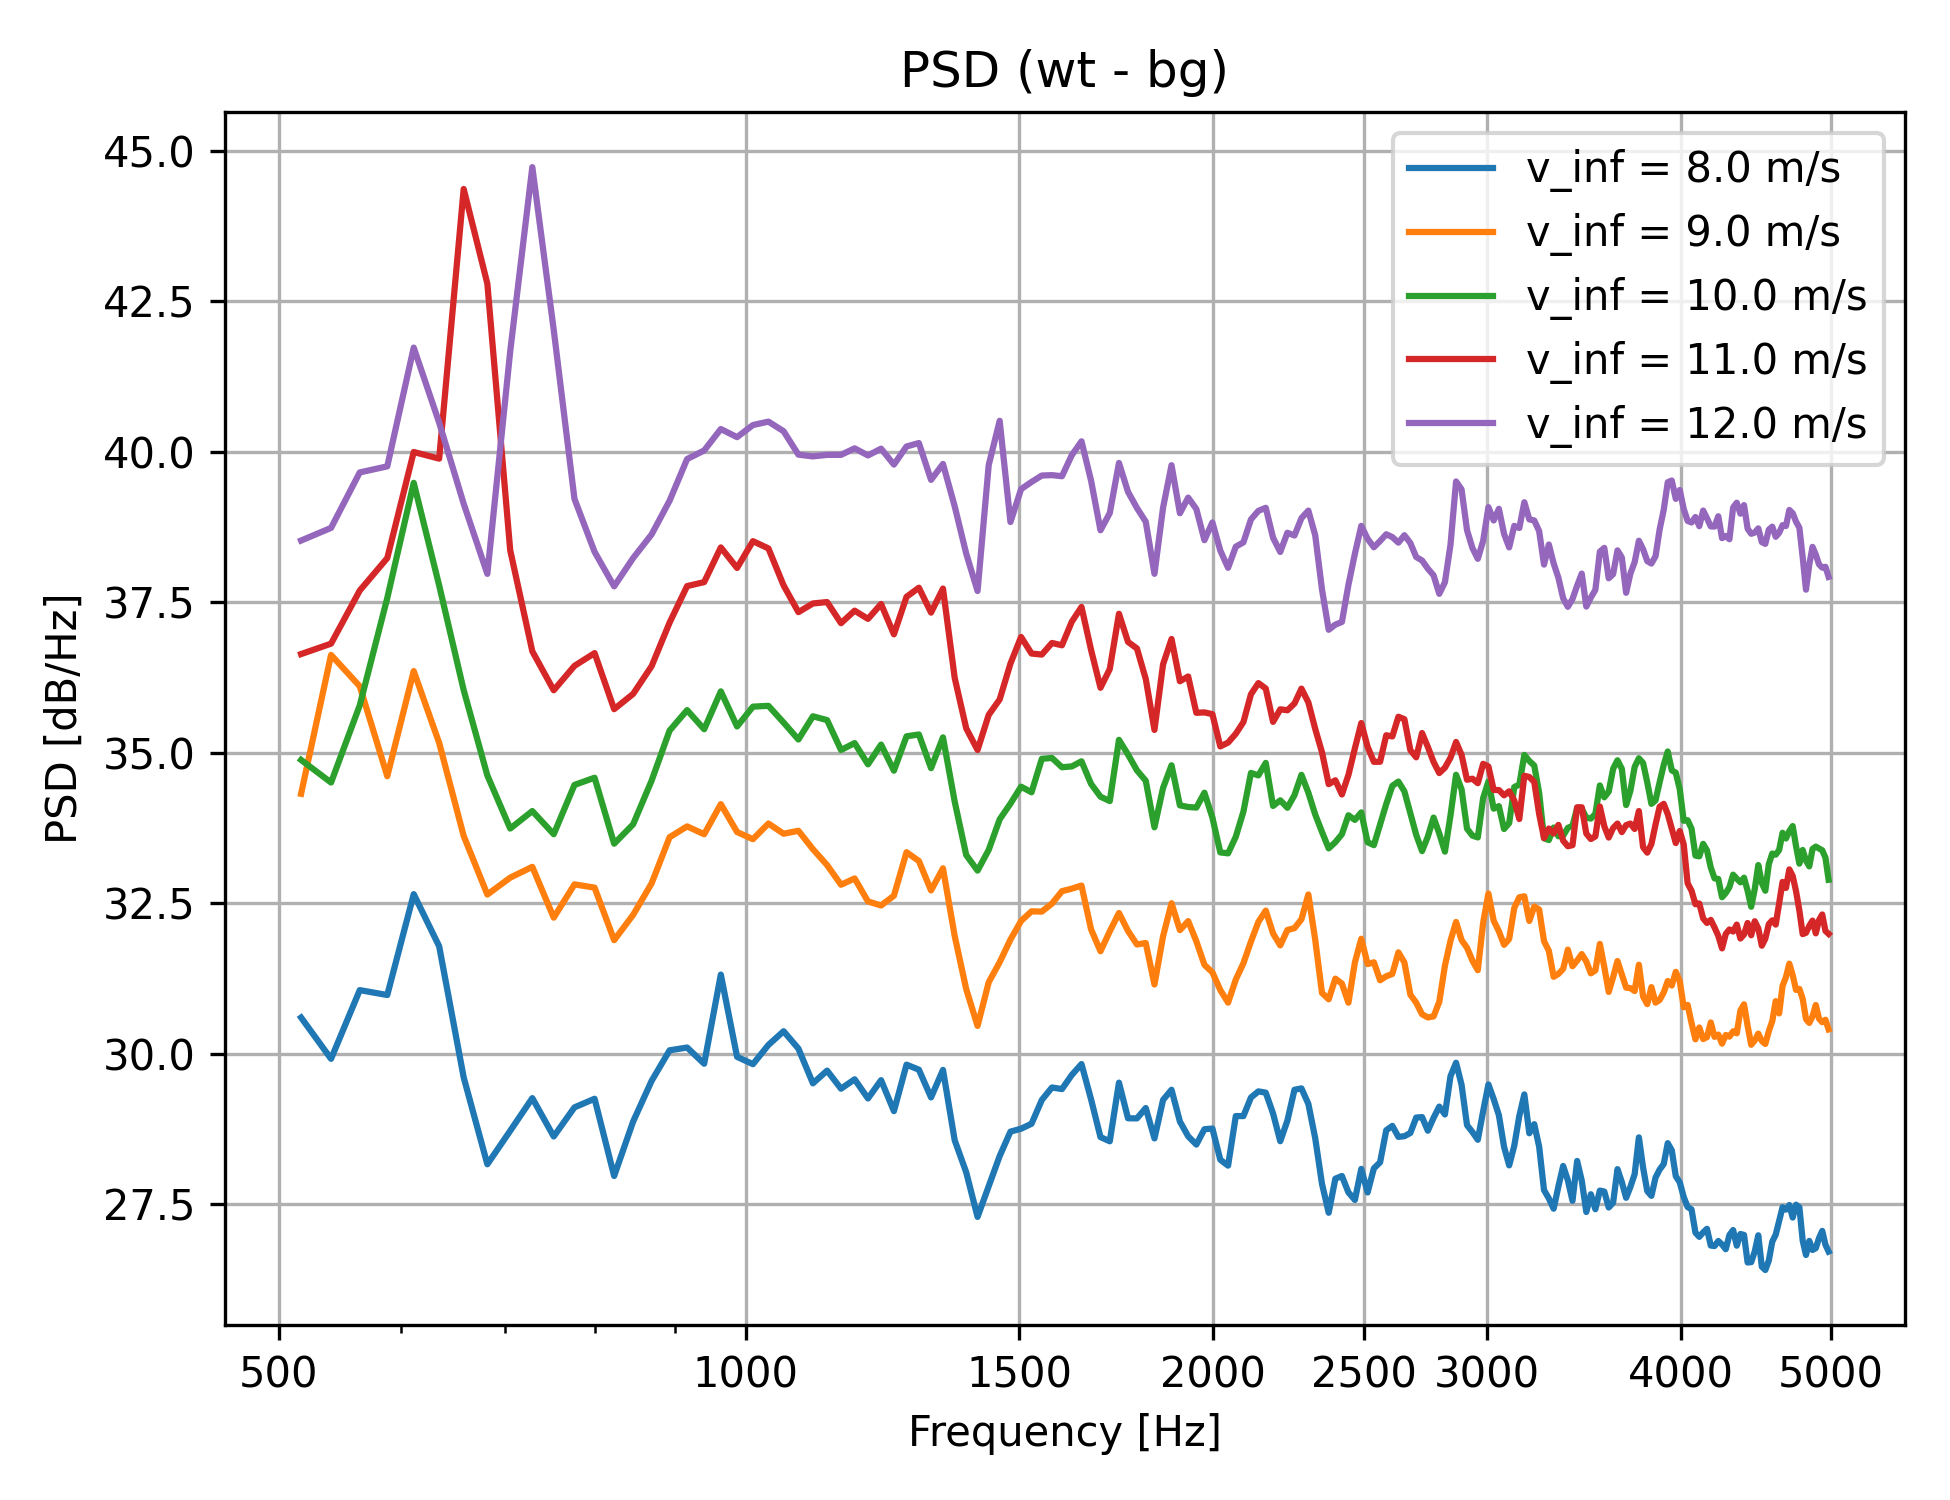
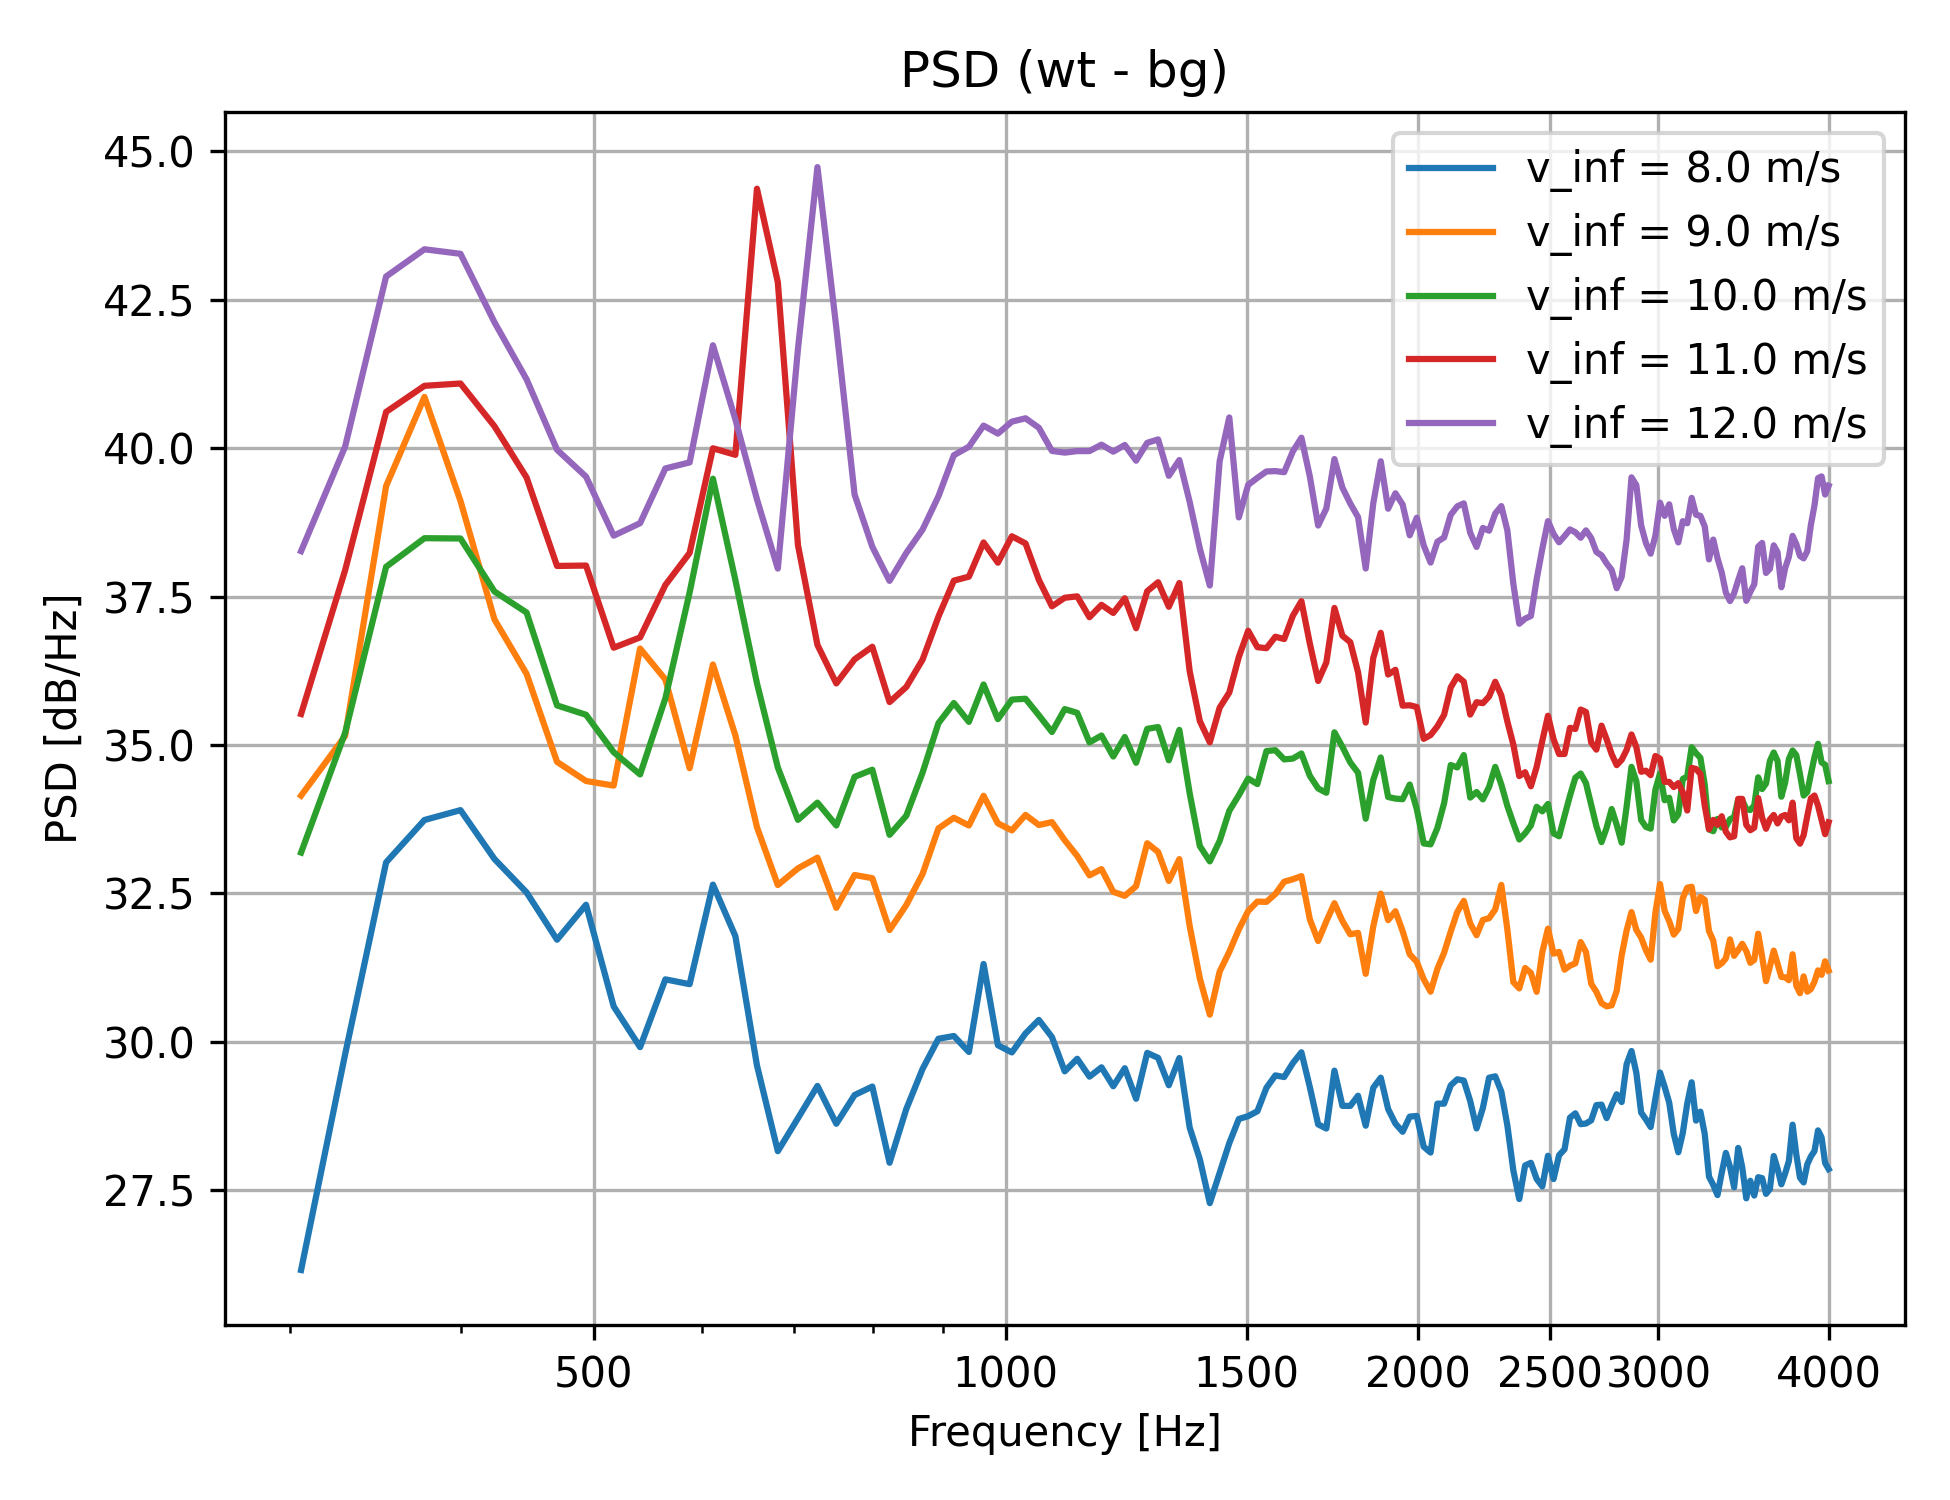
Added validation case

diff --git a/analysis.py b/analysis.py
@@ -14,12 +14,13 @@ with open('misc/windmill.txt', 'r') as f:
 # ----------------------------- Config ----------------------------------
 p_ref = 2E-5  # Reference pressure (Pa)
 sample_rate = 48128  # Hz
-f_lower = 500  # Hz
-f_upper = 5000 # Hz
+f_lower = 300  # Hz
+f_upper = 4000 # Hz
 scaling_factor = 1
 size_x = 6.5 * scaling_factor
 size_y = 5 * scaling_factor
-x_ticks = [500, 1000, 1500, 2000, 2500, 3000, 4000, 5000]
+x_ticks = [500, 1000, 1500, 2000, 2500, 3000, 4000]
+color_scheme = 'viridis'
 
 # Get paths for data files
 bg_paths = []
@@ -30,8 +31,6 @@ for file in os.listdir('data/downloads'):
             bg_paths.append(f'data/downloads/{file}')
         elif 'Wind' in file:
             wt_paths.append(f'data/downloads/{file}')
-
-run_FFT = False
 
 # Uncomment the following lines to use only one background and one wind turbine file
 #bg_paths = ['data/downloads/U12_Background.mat']
@@ -91,10 +90,10 @@ for bg_data_path, wt_data_path in zip(bg_paths, wt_paths):
 df_bpm_list = []
 for v_inf in v_inf_list:
     print(f'[*] Importing BPM data from BPM_BYU/data/data{int(v_inf)}.csv...')
-    df_fortran_bpm = pd.read_csv(f'BPM_BYU/data/data{int(v_inf)}.csv', sep=',')
+    df_bpm = pd.read_csv(f'BPM_BYU/data/data{int(v_inf)}.csv', sep=',')
     # Remove data outside of range
-    df_fortran_bpm = df_fortran_bpm[(df_fortran_bpm['freq'] >= f_lower) & (df_fortran_bpm['freq'] <= f_upper)]
-    df_bpm_list.append(df_fortran_bpm)
+    df_bpm = df_bpm[(df_bpm['freq'] >= f_lower) & (df_bpm['freq'] <= f_upper)]
+    df_bpm_list.append(df_bpm)
 
 
 # ---------------------------------- FFT ----------------------------------
@@ -102,55 +101,54 @@ for v_inf in v_inf_list:
 df_bg_fft_list = []
 df_wt_fft_list = []
 
-if run_FFT:
-    for df_bg, df_wt, v_inf in zip(df_bg_list, df_wt_list, v_inf_list):
-        print(f'[*] Calculating FFT for v_inf = {v_inf} m/s...')
+for df_bg, df_wt, v_inf in zip(df_bg_list, df_wt_list, v_inf_list):
+    print(f'[*] Calculating FFT for v_inf = {v_inf} m/s...')
 
-        # Calculate frequency components
-        df_bg_fft = pd.DataFrame(np.fft.fft(df_bg))
-        df_wt_fft = pd.DataFrame(np.fft.fft(df_wt))
+    # Calculate frequency components
+    df_bg_fft = pd.DataFrame(np.fft.fft(df_bg))
+    df_wt_fft = pd.DataFrame(np.fft.fft(df_wt))
 
-        # Get absolute value of components and normalize
-        df_bg_fft = df_bg_fft.applymap(lambda x: np.abs(x) / len(df_bg))
-        df_wt_fft = df_wt_fft.applymap(lambda x: np.abs(x) / len(df_wt))
+    # Get absolute value of components and normalize
+    df_bg_fft = df_bg_fft.applymap(lambda x: np.abs(x) / len(df_bg))
+    df_wt_fft = df_wt_fft.applymap(lambda x: np.abs(x) / len(df_wt))
 
-        # Get frequency axis
-        df_bg_fft['freq'] = np.fft.fftfreq(n=len(df_bg_fft), d=1/sample_rate)
-        df_wt_fft['freq'] = np.fft.fftfreq(n=len(df_wt_fft), d=1/sample_rate)
+    # Get frequency axis
+    df_bg_fft['freq'] = np.fft.fftfreq(n=len(df_bg_fft), d=1/sample_rate)
+    df_wt_fft['freq'] = np.fft.fftfreq(n=len(df_wt_fft), d=1/sample_rate)
 
-        # Keep only positive frequencies
-        df_bg_fft = df_bg_fft[df_bg_fft['freq'] >= 0]
-        df_wt_fft = df_wt_fft[df_wt_fft['freq'] >= 0]
+    # Keep only positive frequencies
+    df_bg_fft = df_bg_fft[df_bg_fft['freq'] >= 0]
+    df_wt_fft = df_wt_fft[df_wt_fft['freq'] >= 0]
 
-        # Remove frequencies outside of range
-        df_bg_fft = df_bg_fft[(df_bg_fft['freq'] >= f_lower) & (df_bg_fft['freq'] <= f_upper)]
-        df_wt_fft = df_wt_fft[(df_wt_fft['freq'] >= f_lower) & (df_wt_fft['freq'] <= f_upper)]
+    # Remove frequencies outside of range
+    df_bg_fft = df_bg_fft[(df_bg_fft['freq'] >= f_lower) & (df_bg_fft['freq'] <= f_upper)]
+    df_wt_fft = df_wt_fft[(df_wt_fft['freq'] >= f_lower) & (df_wt_fft['freq'] <= f_upper)]
 
-        # Reset index
-        df_bg_fft = df_bg_fft.reset_index(drop=True)
-        df_wt_fft = df_wt_fft.reset_index(drop=True)
+    # Reset index
+    df_bg_fft = df_bg_fft.reset_index(drop=True)
+    df_wt_fft = df_wt_fft.reset_index(drop=True)
 
-        # Append to lists
-        df_bg_fft_list.append(df_bg_fft)
-        df_wt_fft_list.append(df_wt_fft)
+    # Append to lists
+    df_bg_fft_list.append(df_bg_fft)
+    df_wt_fft_list.append(df_wt_fft)
 
-    freq_res_fft = df_bg_fft_list[0]['freq'][1] - df_bg_fft_list[0]['freq'][0]
-    print(f'[*] Frequency resolution: {freq_res_fft} Hz')
+freq_res_fft = df_bg_fft_list[0]['freq'][1] - df_bg_fft_list[0]['freq'][0]
+print(f'[*] Frequency resolution: {freq_res_fft} Hz')
 
-    # Plot all FFT results in df_bg_fft_list and df_wt_fft_list
-    print('[*] Plotting results...')
-    fig, ax = plt.subplots()
-    fig.set_size_inches(size_x, size_y)
-    for df_bg_fft, df_wt_fft, v_inf in zip(df_bg_fft_list, df_wt_fft_list, v_inf_list):
-        sns.lineplot(data=df_wt_fft, x='freq', y=0, label=f'v_inf = {v_inf} m/s', ax=ax)
-    ax.set_title('FFT')
-    ax.grid(True)
-    ax.set_ylabel('Pressure [Pa]')
-    plt.xscale('log')
-    plt.xticks(x_ticks, x_ticks)
-    plt.tight_layout()
-    plt.savefig(f'saves/fft.png', dpi=300)
-    plt.show()
+# Plot all FFT results in df_bg_fft_list and df_wt_fft_list
+print('[*] Plotting results...')
+fig, ax = plt.subplots()
+fig.set_size_inches(size_x, size_y)
+for df_bg_fft, df_wt_fft, v_inf in zip(df_bg_fft_list, df_wt_fft_list, v_inf_list):
+    sns.lineplot(data=df_wt_fft, x='freq', y=0, label=f'v_inf = {v_inf} m/s', ax=ax)
+ax.set_title('FFT')
+ax.grid(True)
+ax.set_ylabel('Pressure [Pa]')
+plt.xscale('log')
+plt.xticks(x_ticks, x_ticks)
+plt.tight_layout()
+plt.savefig(f'saves/fft.png', dpi=300)
+plt.show()
 
 # --------------------------- Welch PSD -----------------------------------
 
@@ -295,9 +293,9 @@ fig, ax = plt.subplots()
 fig.set_size_inches(size_x, size_y)
 for df_bg_spl, df_wt_spl, v_inf in zip(df_bg_spl_list, df_wt_spl_list, v_inf_list):
     sns.lineplot(data=df_wt_spl, x='freq', y='spl', label=f'v_inf = {v_inf} m/s', ax=ax)
-bpm_df = pd.DataFrame({'freq': bpm_f, 'spl': SPLTBL_tot})
-bpm_df = bpm_df[(bpm_df['freq'] >= f_lower) & (bpm_df['freq'] <= f_upper)]
-sns.lineplot(data=bpm_df, x='freq', y='spl', label=f'(BPM) v_inf = x m/s', ax=ax)
+#bpm_df = pd.DataFrame({'freq': bpm_f, 'spl': SPLTBL_tot})
+#bpm_df = bpm_df[(bpm_df['freq'] >= f_lower) & (bpm_df['freq'] <= f_upper)]
+#sns.lineplot(data=bpm_df, x='freq', y='spl', label=f'(BPM) v_inf = x m/s', ax=ax)
 ax.set_title('SPL')
 ax.grid(True)
 ax.set_ylabel('SPL [dB]')
@@ -313,7 +311,7 @@ fig, ax = plt.subplots()
 fig.set_size_inches(size_x, size_y)
 for df_wt_bg_spl, v_inf in zip(df_wt_bg_spl_list, v_inf_list):
     sns.lineplot(data=df_wt_bg_spl, x='freq', y='spl', label=f'v_inf = {v_inf} m/s')
-sns.lineplot(data=bpm_df, x='freq', y='spl', label=f'(BPM) v_inf = {v_inf} m/s')
+#sns.lineplot(data=bpm_df, x='freq', y='spl', label=f'(BPM) v_inf = {v_inf} m/s')
 ax.set_title('SPL (wt - bg)')
 ax.grid(True)
 ax.set_ylabel('SPL [dB]')
@@ -374,48 +372,21 @@ for df_bg_welch_psd, df_wt_welch_psd, df_wt_bg_welch_psd, v_inf in zip(df_bg_wel
     df_wt_spl_1_3_list.append(df_wt_spl)
     df_wt_bg_spl_1_3_list.append(df_wt_bg_spl)
 
-# Plot results
 print('[*] Plotting results...')
-fig, ax = plt.subplots()
-fig.set_size_inches(size_x, size_y)
-colors = ['tab:blue', 'tab:orange', 'tab:green', 'tab:red', 'tab:purple']
-for df_bg_spl, df_wt_spl, df_wt_bg_spl, df_fortran_bpm, colors, v_inf in zip(df_bg_spl_1_3_list, df_wt_spl_1_3_list, df_wt_bg_spl_1_3_list, df_bpm_list, colors, v_inf_list):
-    sns.lineplot(data=df_wt_spl, x='freq', y='spl', label=f'v_inf = {v_inf} m/s', ax=ax, dashes=False, markers=True)
-    sns.lineplot(data=df_fortran_bpm, x='freq', y='spl', label=f'v_inf = {v_inf} m/s (BPM)', ax=ax, markers=True)
-    ax.lines[-1].set_linestyle('--')
-    ax.lines[-1].set_color(colors)
-    ax.lines[-2].set_color(colors)
-
-# Update legend for each line (all v_inf)
-handles, labels = ax.get_legend_handles_labels()
-ax.legend(handles=handles[0:len(v_inf_list)], labels=labels[0:len(v_inf_list)])
-
-#sns.lineplot(data=bpm_df, x='freq', y='spl', label=f'(BPM) v_inf = {v_inf} m/s')
-ax.set_title('SPL 1/3')
-ax.grid(True)
-ax.set_ylabel('Pressure [dB]')
+fig, ax = plt.subplots(figsize=(10, 6))
+colors = []
+for i in range(len(v_inf_list)):
+    colors.append(plt.cm.get_cmap(color_scheme, len(v_inf_list))(i))
+for df_wt_spl_1_3, df_bpm, v_inf in zip(df_wt_spl_1_3_list, df_bpm_list, v_inf_list):
+    ax.plot(df_wt_spl_1_3['freq'], df_wt_spl_1_3['spl'], color=colors[v_inf_list.index(v_inf)], label=f'v_inf = {v_inf} m/s')
+    ax.plot(df_bpm['freq'], df_bpm['spl'], '--', color=colors[v_inf_list.index(v_inf)])
 ax.set_xlabel('Frequency [Hz]')
-plt.xscale('log')
-plt.xticks(x_ticks, x_ticks)
-plt.tight_layout()
-plt.savefig('saves/spl_1_3.png', dpi=300)
-plt.show()
-
-# Plot error (wt - bpm)
-fig, ax = plt.subplots()
-fig.set_size_inches(size_x, size_y)
-for df_bg_spl, df_wt_spl, v_inf in zip(df_bg_spl_1_3_list, df_wt_spl_1_3_list, v_inf_list):
-    sns.lineplot(data=df_wt_spl - bpm_df, x='freq', y='spl', label=f'v_inf = {v_inf} m/s', ax=ax)
-ax.set_title('SPL 1/3 (wt - bpm)')
+ax.set_ylabel('SPL [dB]')
+ax.set_title('SPL_1/3')
+ax.legend()
 ax.grid(True)
-ax.set_ylabel('Pressure [dB]')
-ax.set_xlabel('Frequency [Hz]')
-plt.xscale('log')
-plt.xticks(x_ticks, x_ticks)
-plt.tight_layout()
-plt.savefig('saves/spl_1_3_error.png', dpi=300)
+plt.savefig('SPL_1_3.png', dpi=300)
 plt.show()
-
 
 # ---------------------------------- OSPL ----------------------------------
 

diff --git a/BPM_BYU/run.py b/BPM_BYU/run.py
@@ -4,6 +4,42 @@ import _bpmacoustic
 import numpy as np
 import csv
 
+# -------------- Parameters --------------
+#    x-positions of all the turbines heard by an observer (east to west, meter)
+#turby : array
+#    y-positions of all the turbines heard by an observer (north to south, meter)
+#obs : array
+#    x-, y-, and z-position of a specified observer (E-W, N-S, height; meter)
+#winddir : float
+#    direction the wind blows from (180=N, 270=E, 0=S, 90=W; degree)
+#windvel : array
+#    wind velocity at each turbine in the specified wind direction (m/s)
+#rpm : array
+#    rotation rate of each turbine (RPM)
+#B : float
+#    number of blades on a turbine
+#h : float
+#    height of a turbine hub (meter)
+#rad : array
+#    radial positions of the blade geometry (meter)
+#c : array
+#    chord length at each radial segment (meter)
+#c1 : array
+#    distance from the pitch axis to leading edge at each radial segment (meter)
+#alpha : array
+#    angle of attack of each radial segment (degree)
+#nu : float
+#    kinematic viscosity of the air (m^2/s)
+#c0 : float
+#    speed of sound of the air (m/s)
+#psi : float
+#    solid angle of turbine blades between upper and lower sides of trailing edge (degree)
+#AR : float
+#    aspect ratio of turbine blades
+#noise_corr : float
+#    correction factor for SPL calculations (1=none, use if calculations differ from expected)
+
+
 # Specifiy input parameters
 turbx = np.array([0.])
 turby = np.array([0.])

diff --git a/bpm_vs_bpm_byu.py b/bpm_vs_bpm_byu.py
@@ -1,0 +1,41 @@
+import numpy as np
+import pandas as pd
+import seaborn as sns
+import matplotlib.pyplot as plt
+import pickle as pkl
+
+f_lower = 300  # Hz
+f_upper = 5000 # Hz
+scaling_factor = 1
+size_x = 6.5 * scaling_factor
+size_y = 5 * scaling_factor
+x_ticks = [500, 1000, 1500, 2000, 2500, 3000, 4000, 5000]
+
+# Load BPM data
+with open('BPM/saves/BPM_spl.pkl', 'rb') as f:
+    bpm_model = pkl.load(f)
+    bpm_f = bpm_model[0]
+    SPLTBL_s = bpm_model[1]
+    SPLTBL_p = bpm_model[2]
+    SPLTBL_alpha = bpm_model[3]
+    SPLTBL_tot = bpm_model[4]
+
+df_bpm = pd.DataFrame({'freq': bpm_f, 'SPLTBL_s': SPLTBL_s, 'SPLTBL_p': SPLTBL_p, 'SPLTBL_alpha': SPLTBL_alpha, 'SPLTBL_tot': SPLTBL_tot})
+df_bpm = df_bpm[(df_bpm['freq'] >= f_lower) & (df_bpm['freq'] <= f_upper)]
+
+# Load BPM_BYU data
+df_bpm_byu = pd.read_csv('BPM_BYU/data/data12.csv', sep=',')
+df_bpm_byu = df_bpm_byu[(df_bpm_byu['freq'] >= f_lower) & (df_bpm_byu['freq'] <= f_upper)]
+
+# Plot comparison on same axes
+fig, ax = plt.subplots(figsize=(size_x, size_y))
+sns.lineplot(x='freq', y='SPLTBL_tot', data=df_bpm, ax=ax, label='BPM')
+sns.lineplot(x='freq', y='spl', data=df_bpm_byu, ax=ax, label='BPM_BYU')
+ax.set_xscale('log')
+ax.set_yscale('linear')
+ax.set_xlabel('Frequency (Hz)')
+ax.set_ylabel('SPL (dB)')
+ax.set_xlim([f_lower, f_upper])
+plt.grid(True)
+plt.show()
+

diff --git a/BPM_BYU/run_validation_case.py b/BPM_BYU/run_validation_case.py
@@ -1,0 +1,43 @@
+#python2.7
+
+import _bpmacoustic
+import numpy as np
+import csv
+
+# Specifiy input parameters
+turbx = np.array([0.])
+turby = np.array([0.])
+obs = np.array([0., 0., 1.22])
+winddir = 0.
+B = 2.
+h = 1.775
+rad = np.linspace(0, 0.4572, 10)
+c = np.array([0.3048, 0.3048, 0.3048, 0.3048, 0.3048, 0.3048, 0.3048, 0.3048, 0.3048, 0.3048])
+c1 = c * 0.25
+alpha = np.array([1.516, 1.516, 1.516, 1.516, 1.516, 1.516, 1.516, 1.516, 1.516, 1.516])
+nu = 1.78e-5
+c0 = 343.2
+psi = 0
+AR = 6.66
+noise_corr = 0  # 0.8697933840957954
+
+# Iterate over velocities
+for vel in [71.3]:
+
+	windvel = np.array([vel])
+	rpm = np.array([vel * 7 * 9.549297])
+
+	SPL_HAWT = _bpmacoustic.turbinepos(turbx, turby, obs, winddir, windvel, rpm, B, h, rad, c, c1, alpha, nu, c0, psi, AR, noise_corr)
+
+	print "Windvel: " + str(windvel)
+	print "OASPL: " + str(SPL_HAWT[0])
+	for f, SPL in zip(SPL_HAWT[1], SPL_HAWT[2]):
+		print str(f) + " : " + str(SPL)
+
+	rows = zip(SPL_HAWT[1], SPL_HAWT[2])
+	with open("data_validation_case/data" + str(int(vel)) + ".csv", "wb") as file:
+		writer = csv.writer(file)
+		writer.writerow(["freq", "spl"])
+		writer.writerows(rows)
+	print "Data written to data_validation_case/data" + str(int(vel)) + ".csv"
+
